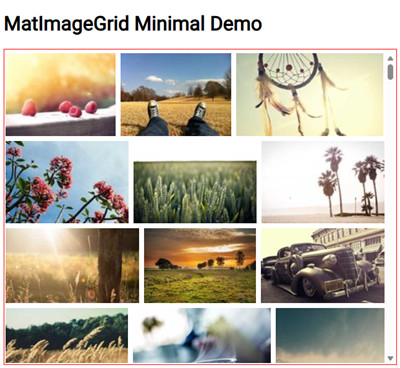
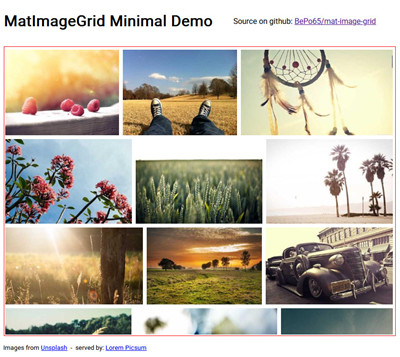
fix: add hint to picsum to footer of web pages

diff --git a/projects/minimal-demo/src/app/app.component.html b/projects/minimal-demo/src/app/app.component.html
@@ -1,4 +1,13 @@
-<h1>{{ title }}</h1>
+<div class="header">
+  <h1 class="page-title">{{ title }}</h1>
+  <div class="header-source">
+    <span>Source on github: </span>
+    <a href="https://github.com/BePo65/mat-image-grid">
+      BePo65/mat-image-grid
+    </a>
+  </div>
+</div>
+
 <div id="grid-container">
   <mat-image-grid
     id="test-grid"
@@ -7,4 +16,11 @@
   >
     loading...
   </mat-image-grid>
+</div>
+<div class="footer">
+  <span>Images from </span>
+  <a href="https://unsplash.com/de/">Unsplash</a>
+  <span class="text-spacer">-</span>
+  <span>served by: </span>
+  <a href="https://picsum.photos/">Lorem Picsum</a>
 </div>

diff --git a/projects/minimal-demo/src/app/app.component.scss b/projects/minimal-demo/src/app/app.component.scss
@@ -1,11 +1,29 @@
-h1 {
-  padding-left: 0.5rem;
+.header {
+  display: grid;
+  flex-grow: 0;
+  grid-template-columns: max-content auto max-content;
+  margin: 0.25em 0.5em 0.75em;
+}
+
+.header-source {
+  place-self: center center;
+  margin: 0 2em;
 }
 
 #grid-container {
   border: 1px solid red;
   height: 600px;
   margin-left: 0.5rem;
-  max-width: 75%;
+  max-width: calc(100vw - 1.5rem);
   padding: 2px;
+}
+
+.footer {
+  flex-grow: 0;
+  font-size: smaller;
+  margin: 1rem 0.5em 0.75rem;
+}
+
+.text-spacer {
+  margin: 0 0.5em;
 }

diff --git a/ghpages/index.html b/ghpages/index.html
@@ -46,7 +46,13 @@
           </a>
         </div>
       </div>
-      <div class="footer">Links to demos</div>
+      <div class="footer">
+        <span>Images from </span>
+        <a href="https://unsplash.com/de/">Unsplash</a>
+        <span class="text-spacer">-</span>
+        <span>served by: </span>
+        <a href="https://picsum.photos/">Lorem Picsum</a>
+      </div>
     </div>
   </body>
 </html>

diff --git a/ghpages/styles.css b/ghpages/styles.css
@@ -51,5 +51,9 @@ body {
 .footer {
   flex-grow: 0;
   font-size: smaller;
-  margin: 0.25em 0.5em 0.75em;
+  margin: 1rem 0.5em 0.75rem;
+}
+
+.text-spacer {
+  margin: 0 0.5em;
 }
